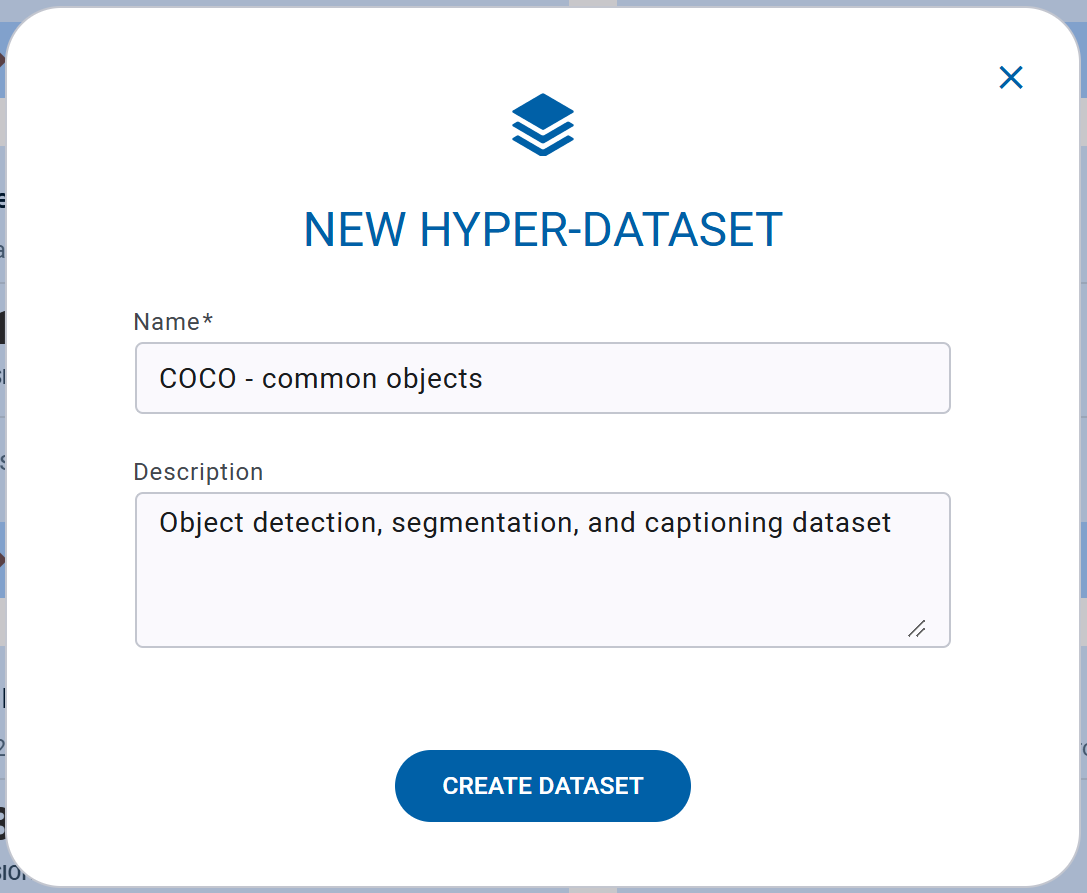
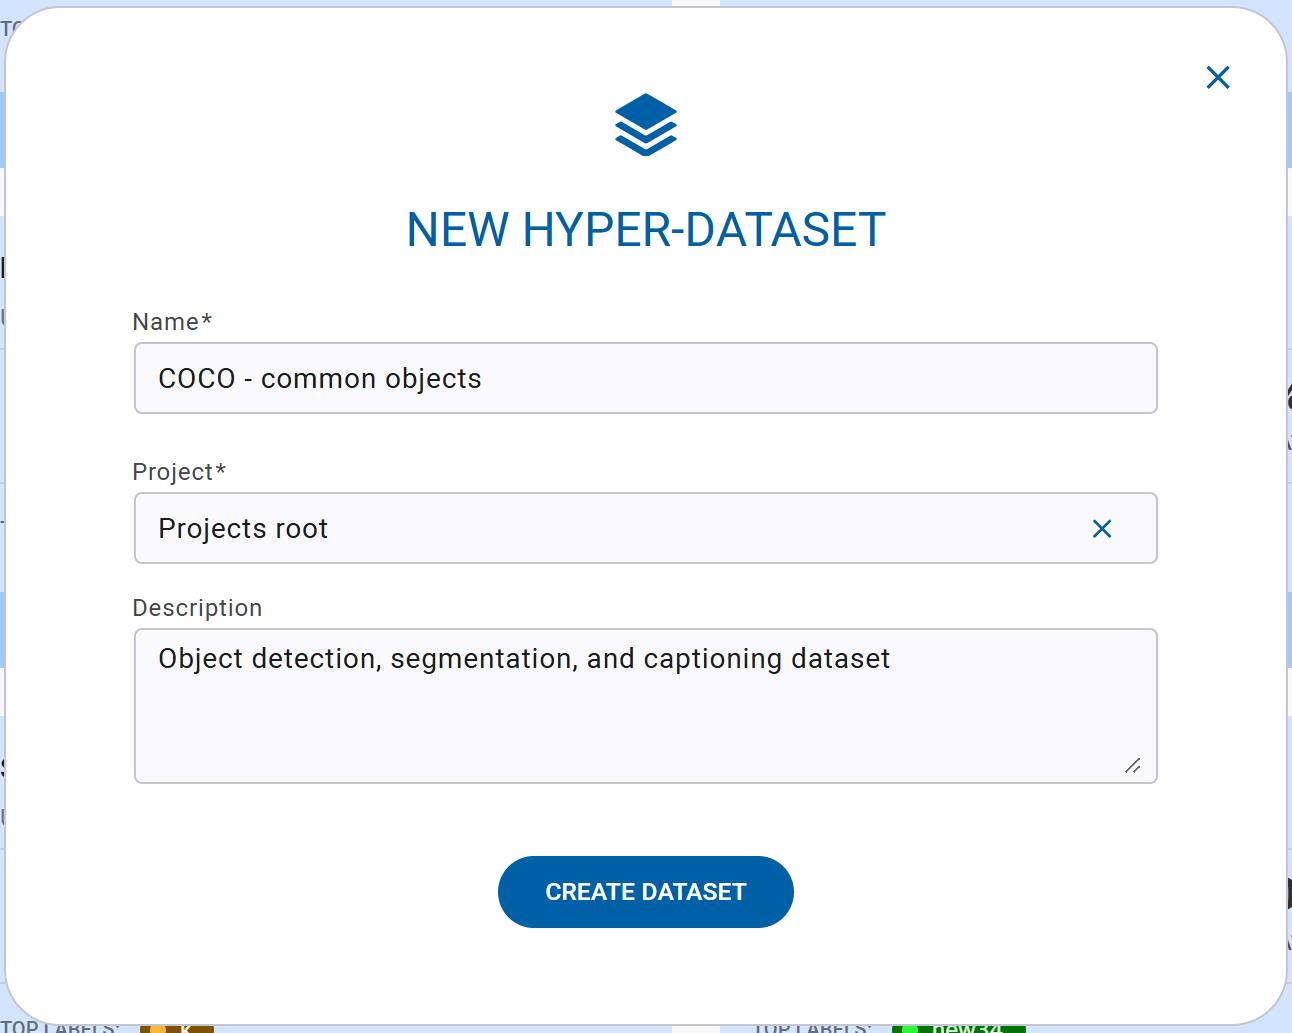
Update docs

diff --git a/sidebars.js b/sidebars.js
@@ -315,10 +315,10 @@ module.exports = {
             {
                 'Enterprise':
                         [
-                           'release_notes/clearml_server/enterprise/ver_3_27',
+                           'release_notes/clearml_server/enterprise/ver_3_28',
                            {
                                 'Older Versions': [
-                                     'release_notes/clearml_server/enterprise/ver_3_26',
+                                     'release_notes/clearml_server/enterprise/ver_3_27', 'release_notes/clearml_server/enterprise/ver_3_26',
                                      'release_notes/clearml_server/enterprise/ver_3_25', 'release_notes/clearml_server/enterprise/ver_3_24',
                                      'release_notes/clearml_server/enterprise/ver_3_23', 'release_notes/clearml_server/enterprise/ver_3_22',
                                      'release_notes/clearml_server/enterprise/ver_3_21', 'release_notes/clearml_server/enterprise/ver_3_20'

diff --git a/docs/webapp/webapp_exp_track_visual.md b/docs/webapp/webapp_exp_track_visual.md
@@ -61,7 +61,7 @@ In full-screen mode, the source code and output details are grouped in the **DET
 ### Source Code
 
 The Source Code section of a task's **EXECUTION** tab includes:
-* The task's repository
+* The task's repository - Click link to open the repository at the specified revision 
 * Commit ID
 * Script path
 * Working directory
@@ -323,7 +323,7 @@ a `Summary` table.
 ![Single value scalar plot](../img/webapp_single_scalar_plot.png#light-mode-only)
 ![Single value scalar plot](../img/webapp_single_scalar_plot_dark.png#dark-mode-only)
 
-#### Scalar Plot Tools
+##### Scalar Plot Tools
 
 Use the scalar tools to improve analysis of scalar metrics. In the info panel, click <img src="/docs/latest/icons/ico-tune.svg" alt="Tuning" className="icon size-md" /> to access the tools. In the full-screen details view, the tools
 are on the left side of the window. The tools include:
@@ -362,7 +362,7 @@ configuration as the default view for the project’s task and model scalars.
 
 See additional [plot controls](#plot-controls) below.
 
-#### Embedding Plots
+##### Embedding Plots
 
 To embed scalar plots in your [Reports](webapp_reports.md), hover over a plot and click Embed <img src="/docs/latest/icons/ico-plotly-embed-code.svg" alt="Embed code" className="icon size-md space-sm" />, 
 which will copy to clipboard the embed code to put in your Reports. To quickly get the embed codes for all plots of a 
@@ -393,13 +393,14 @@ If all the values of a specific metric/variant are the same, the row will displa
 ![Plots tab](../img/webapp_tracking_34a.png#light-mode-only)
 ![Plots tab](../img/webapp_tracking_34a_dark.png#dark-mode-only)
 
-Choose which metrics to view using one of the following out the options:
-* Use the quick filter bar (<img src="/docs/latest/icons/ico-search.svg" alt="Magnifying glass" className="icon size-md space-sm" />) 
-to only show metrics/variants whose name fit a partial-string match 
-* Use the filter menu (<img src="/docs/latest/icons/ico-filter-off.svg" alt="Filter" className="icon size-md" />) to 
-select which metrics to view by clicking their show/hide button (<img src="/docs/latest/icons/ico-show.svg" alt="Eye Show" className="icon size-md space-sm" />). 
-Click **Hide/Show all**, to quickly hide/show all metrics.
+#### Select Metrics and Variants to View
 
+Choose which metrics to view using one of the following options:
+* Quick filter bar (<img src="/docs/latest/icons/ico-search.svg" alt="Magnifying glass" className="icon size-md space-sm" />) - Show 
+  metrics/variants whose name fit a partial-string match 
+* Filter menu (<img src="/docs/latest/icons/ico-show.svg" alt="Eye Show" className="icon size-md space-sm" /> in Graph View, <img src="/docs/latest/icons/ico-filter-off.svg" alt="Filter" className="icon size-md" /> in Metric 
+  Values View) - Select which metrics to view by clicking their show/hide button (<img src="/docs/latest/icons/ico-show.svg" alt="Eye Show" className="icon size-md space-sm" />). 
+  Click **Hide/Show all** to quickly hide/show all metrics (when the selection is focused through search, the Hide/Show action applies to the matching metrics only).
 
 ### Plots
 Non-time-series plots appear in **PLOTS**. These include data generated by libraries, visualization tools, and 
@@ -422,6 +423,13 @@ buttons (or using the left/right arrow keyboard shortcut).
 
 ![Plots maximize tab](../img/webapp_tracking_35a.png#light-mode-only)
 ![Plots maximize tab](../img/webapp_tracking_35a_dark.png#dark-mode-only)
+
+Choose which plots to display using the following options:
+* Quick filter bar (<img src="/docs/latest/icons/ico-search.svg" alt="Magnifying glass" className="icon size-md space-sm" />) - Show 
+  metrics/variants whose name fit a partial-string match 
+* Filter menu - Select which metrics to view by clicking their show/hide button (<img src="/docs/latest/icons/ico-show.svg" alt="Eye Show" className="icon size-md space-sm" />). 
+  Click **Hide/Show all** to quickly hide/show all metrics (when the selection is focused through search, the Hide/Show 
+  action applies to the matching metrics only).
 
 #### Plot Controls
 

diff --git a/docs/webapp/resource_policies.md b/docs/webapp/resource_policies.md
@@ -67,6 +67,8 @@ The policy details panel displays:
 The top card displays the policy information:
 * Policy name
 * Current usage - The number of resources currently in use (i.e. by currently running jobs)
+* Resource consumption breakdown - Click <img src="/docs/latest/icons/ico-resource-list.svg" alt="task list" className="icon size-md space-sm" />
+  to view tasks currently using  this policy’s resources: Task name, number of resources consumed, and more. Click a task name to go to its [task page](webapp_exp_track_visual.md).
 * Reserved resources
 * Resource limit
 * User group that the policy applies to - click to show list of users in the group
@@ -99,8 +101,17 @@ To modify a resource policy, click **Edit** to open the details panel in editor 
 ### To Modify Policy Parameters
 
 1. On the resource policy card, click <img src="/docs/latest/icons/ico-bars-menu.svg" alt="Menu" className="icon size-md space-sm" /> **> Edit**
-1. In the Edit Resource Policy modal, you can modify the policy’s name, number of reserved resources, resource limit, 
-and description
+1. In the `Edit Resource Policy` modal, you can modify the following:
+   * Policy name
+   * Number of reserved resources
+   * Resource limit
+   * [User group](settings/webapp_settings_users.md#user-groups) to which the policy applies.
+     :::note
+     Changing the user group will remove any pending tasks from users not in the new group from the policy’s queues..
+     :::
+   
+   * Description
+
 1. Click **Save**
 
 ### To Add a Resource Profile to a Policy

diff --git a/docs/webapp/webapp_exp_reproducing.md b/docs/webapp/webapp_exp_reproducing.md
@@ -2,13 +2,13 @@
 title: Reproducing Task Runs
 ---
 
-Reproducing task runs on local or remote machines in one of the following ways:
+You can reproduce task runs on local or remote machines in one of the following ways:
 * Cloning any task - Make an exact copy, while maintaining the original task
 * Resetting a task whose status is not *Published* - Delete the previous run's logs and output
 
 After cloning or resetting, enqueue the reset or newly cloned task for execution by a worker.
 
-Tasks can also be modified and then executed remotely, see [Tuning Tasks](webapp_exp_tuning.md).
+Tasks can also be modified before execution. See [Tuning Tasks](webapp_exp_tuning.md).
 
 ## Cloning
 To clone a task:
@@ -22,6 +22,8 @@ To clone a task:
      ::: 
    
    * Set `<cloned_task>` as parent - Select to set this task as the new task's parent
+   * Clear Dataviews (Enterprise feature) - If selected, the new task will start with no Dataviews 
+   * Force Original Packages - If selected, use the parent tasks's `original pip`/`original conda` for the new task’s [`Python Packages`](webapp_exp_track_visual.md#python-packages).
    * Description (optional)
 1. Click **Clone**
 
@@ -31,9 +33,12 @@ have a parent, in which case the original task is set as the parent. Select `Set
 the original task to become the clone's parent. 
 :::
 
+<div class="max-w-75">
+
 ![Clone modal](../img/webapp_clone.png#light-mode-only)
 ![Clone modal](../img/webapp_clone_dark.png#dark-mode-only)
 
+</div>
 
 ## Resetting
 

diff --git a/docs/hyperdatasets/webapp/webapp_datasets_versioning.md b/docs/hyperdatasets/webapp/webapp_datasets_versioning.md
@@ -55,13 +55,16 @@ Access dataset version actions, by right-clicking a version, or through the menu
 
 * **Rename** - Change the version's name
 * **Create New Version** - Creates a child version of a *Published* dataset version. The new version is created in a *draft*
-  state, and inherits all the parent version's frames
+  state, and inherits all the parent version's frames. The template for the default value of new dataset version names 
+  can be set in [**Settings > Hyper-Dataset New Version Name Template**](../../webapp/settings/webapp_settings_ui_customization.md#hyper-dataset-new-version-name-template).
 * **Delete** - Delete the version. Only *Draft* versions can be deleted.  
 * **Publish** - Make a *Draft* version read-only to preserve its contents. 
  
 :::tip Publishing versions
 When publishing a version, you can create an additional working copy. The new version is created in a *draft* state, and 
-inherits all the published version's frames. 
+inherits all the published version's frames. By default, the newly created working copy inherits the original version's 
+name, while the published original version is automatically renamed to reflect its published state. The template for 
+the default value of published  version names can be set in [**Settings > Hyper-Dataset New Version Name Template**](../../webapp/settings/webapp_settings_ui_customization.md#hyper-dataset-new-version-name-template).
 
 <div class="max-w-75">
 

diff --git a/docs/clearml_sdk/task_sdk.md b/docs/clearml_sdk/task_sdk.md
@@ -8,7 +8,7 @@ The following page provides an overview of the basic Pythonic interface to Clear
 
 [`Task.init`](../references/sdk/task.md) is the main method used to create tasks in ClearML. It will create a task, and 
 populate it with:
-* A link to the running git repository (including commit ID and local uncommitted changes)
+* A link to the Git repository that contains the source code (including commit ID and local uncommitted changes)
 * Python packages used (i.e. directly imported Python packages, and the versions available on the machine)
 * Argparse arguments (default and specific to the current execution)
 * Reports to Tensorboard and Matplotlib and model checkpoints.
@@ -19,7 +19,7 @@ To ensure every run will provide the same results, ClearML controls the determin
 :::
 
 :::note
-ClearML object (such as task, project) names are required to be at least 3 characters long
+Task names are required to be at least 3 characters long.
 :::
 
 ```python
@@ -28,7 +28,7 @@ from clearml import Task
 
 task = Task.init(
     project_name='example',    # project name of at least 3 characters
-    task_name='task template', # task name of at least 3 characters
+    task_name='task template',
     task_type=None,
     tags=None,
     reuse_last_task_id=True,

diff --git a/docs/hyperdatasets/webapp/webapp_datasets.md b/docs/hyperdatasets/webapp/webapp_datasets.md
@@ -90,10 +90,11 @@ of a dataset card to open its context menu and access dataset actions:
 * **Add Tag** - Add label to the dataset to help easily classify groups of datasets.
 * **Edit Metadata** - Modify dataset-level metadata. This will open the metadata edit window, where you can edit the section
 * **Delete** - Delete the dataset and all its versions.  
-  <br/><br/>
+  <br/>
   :::warning
   You cannot undo the deletion of a Hyper-Dataset.
   :::
+* **Move to Project** - Move the dataset to another project.
 
 
 ## Create New Hyper-Datasets
@@ -101,7 +102,7 @@ of a dataset card to open its context menu and access dataset actions:
 To create a Hyper-Dataset, click the **+ NEW DATASET** button in the top right of the page, which will open a 
 **New Dataset** modal.
 
-<div class="max-w-50">
+<div class="max-w-75">
 
 ![Hyper-Dataset creation modal](../../img/hyperdatasets/webapp_hyperdataset_creation.png#light-mode-only)
 ![Hyper-Dataset creation modal](../../img/hyperdatasets/webapp_hyperdataset_creation_dark.png#dark-mode-only)

diff --git a/docs/deploying_clearml/enterprise_deploy/app_launch_form_custom.md b/docs/deploying_clearml/enterprise_deploy/app_launch_form_custom.md
@@ -37,6 +37,18 @@ app_wizard_overrides {
 
 Refer to the configuration file of a specific application to view the property IDs for use when overriding. 
 
+The `app-id`, configuration-parameter and property names for a specific app are the same ones used in the `wizard` 
+section of its configuration file.
+
+:::tip Live configuration reference
+Admins can get the required field names for a specific application through a builtin reference in the app’s UI form as follows: 
+* Click the `+` to open the app instance launch form
+* In the form enable `Show Form Spec` (the application ID is available in the information tooltip for this UI control). 
+
+Hover over <img src="/docs/latest/icons/ico-settings.svg" alt="Setting Gear" className="icon size-md" /> next to a field 
+to view the name of that field in the application specification file.
+:::
+
 ### Supported Properties
 
 * `options` - Accepts an array of strings or mappings in the format of `{"label": "<option label>", "value": "<option value>"}`

diff --git a/docs/webapp/applications/apps_container_launcher.md b/docs/webapp/applications/apps_container_launcher.md
@@ -61,6 +61,13 @@ To configure a new app instance, click `Launch New` Add new to open the app's in
 
 ### Configuration Options
 
+:::note
+Administrators can [customize](../../deploying_clearml/enterprise_deploy/app_launch_form_custom.md) the launch form and 
+modify field names and/or available options and defaults. 
+
+This section describes the default configuration provided by ClearML
+:::
+
 * **Import Configuration** - Import an app instance configuration file. This will fill the instance launch form with the values from the file, which can be modified before launching the app instance  
 * **Application Session Name** - Name for the container launcher instance. This will appear in the instance list  
 * **Application instance project** - ClearML Project where your app instance will be stored  

diff --git a/docs/webapp/applications/apps_aws_autoscaler.md b/docs/webapp/applications/apps_aws_autoscaler.md
@@ -116,6 +116,14 @@ To configure a new app instance, click `Launch New` <img src="/docs/latest/icons
 to open the app's instance launch form.
 
 ### Configuration Options
+
+:::note
+Administrators can [customize](../../deploying_clearml/enterprise_deploy/app_launch_form_custom.md) the launch form and 
+modify field names and/or available options and defaults. 
+
+This section describes the default configuration provided by ClearML
+:::
+
 * **Import Configuration** - Import an app instance configuration file. This will fill the instance launch form with the 
   values from the file, which can be modified before launching the app instance
 * **AWS Credentials** - Credentials with which the autoscaler can access your AWS account. See [Generating AWS IAM Credentials](#generating-aws-iam-credentials)

diff --git a/docs/webapp/applications/apps_dashboard.md b/docs/webapp/applications/apps_dashboard.md
@@ -11,6 +11,14 @@ view of task status and a chosen metric over time, as well as project GPU and wo
 on completed/failed Tasks via Slack integration.
 
 ## Project Dashboard Instance Configuration
+
+:::note
+Administrators can [customize](../../deploying_clearml/enterprise_deploy/app_launch_form_custom.md) the launch form and 
+modify field names and/or available options and defaults. 
+
+This section describes the default configuration provided by ClearML
+:::
+
 * **Import Configuration** - Import an app instance configuration file. This will fill the instance launch form with the 
   values from the file, which can be modified before launching the app instance
 * **Dashboard Title** - Name of the project dashboard instance, which will appear in the instance list

diff --git a/docs/webapp/applications/apps_nvidia_nim.md b/docs/webapp/applications/apps_nvidia_nim.md
@@ -75,6 +75,14 @@ To configure a new app instance, click `Launch New` <img src="/docs/latest/icons
 to open the app's configuration form.
 
 ### Configuration Options
+
+:::note
+Administrators can [customize](../../deploying_clearml/enterprise_deploy/app_launch_form_custom.md) the launch form and 
+modify field names and/or available options and defaults. 
+
+This section describes the default configuration provided by ClearML
+:::
+
 * **Import Configuration**: Import an app instance configuration file. This will fill the instance launch form with the 
 values from the file, which can be modified before launching the app instance
 * **Application instance project**: The ClearML project where the app instance is created. Access is determined by 
